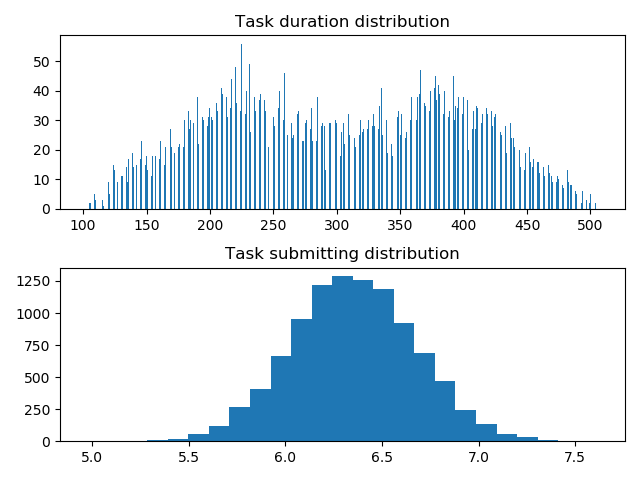
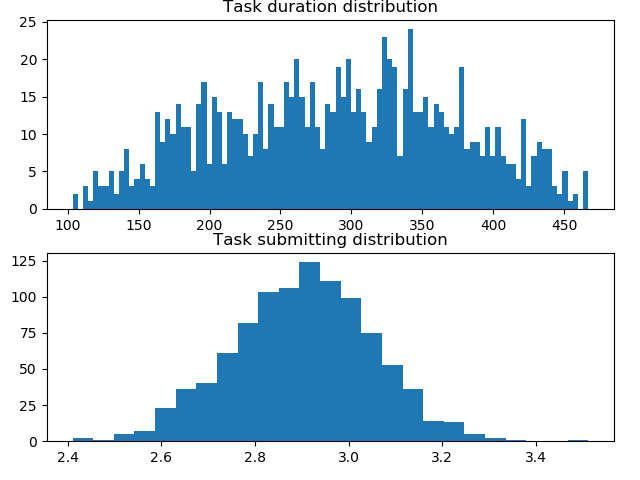
fix distribution plot

diff --git a/generator.py b/generator.py
@@ -110,13 +110,13 @@ class Generator:
         return std_p / mean_p
 
     def _print_plot(self, base_lengths, time_spaces):
-        plt.subplot(2, 1, 1)
-        plt.hist(base_lengths, bins=max(10, self.n // 10))
-        plt.title("Task duration distribution")
+        fig, axs = plt.subplots(nrows=2)
+        fig.tight_layout()
 
-        plt.subplot(2, 1, 2)
-        plt.hist(time_spaces, bins=min(25, max(10, self.n // 25)))
-        plt.title("Task submitting distribution")
+        axs[0].hist(base_lengths, bins=max(10, self.n // 10))
+        axs[0].set_title("Task duration distribution")
 
-        plt.tight_layout()
-        plt.savefig("output/distribution.png")
+        axs[1].hist(time_spaces, bins=min(25, max(10, self.n // 25)))
+        axs[1].set_title("Task submitting distribution")
+
+        fig.savefig("output/distribution.png")

diff --git a/main.py b/main.py
@@ -17,9 +17,9 @@ if __name__ == '__main__':
     metrics_all = {}
     for max_load in [0.2, 0.4, 0.6, 0.8, 1.0]:
         n_procesors = 100
-        generator = Generator(task_number=10000, processors_number=n_procesors,
+        generator = Generator(task_number=1000, processors_number=n_procesors,
                               coefficient_of_variation=0.3, max_load=max_load, max_part_of_processors_number=1.0,
-                              print_plots=True)
+                              print_plots=False)
         instance = generator.generate()
         print(max_load)
         metrics = {}
